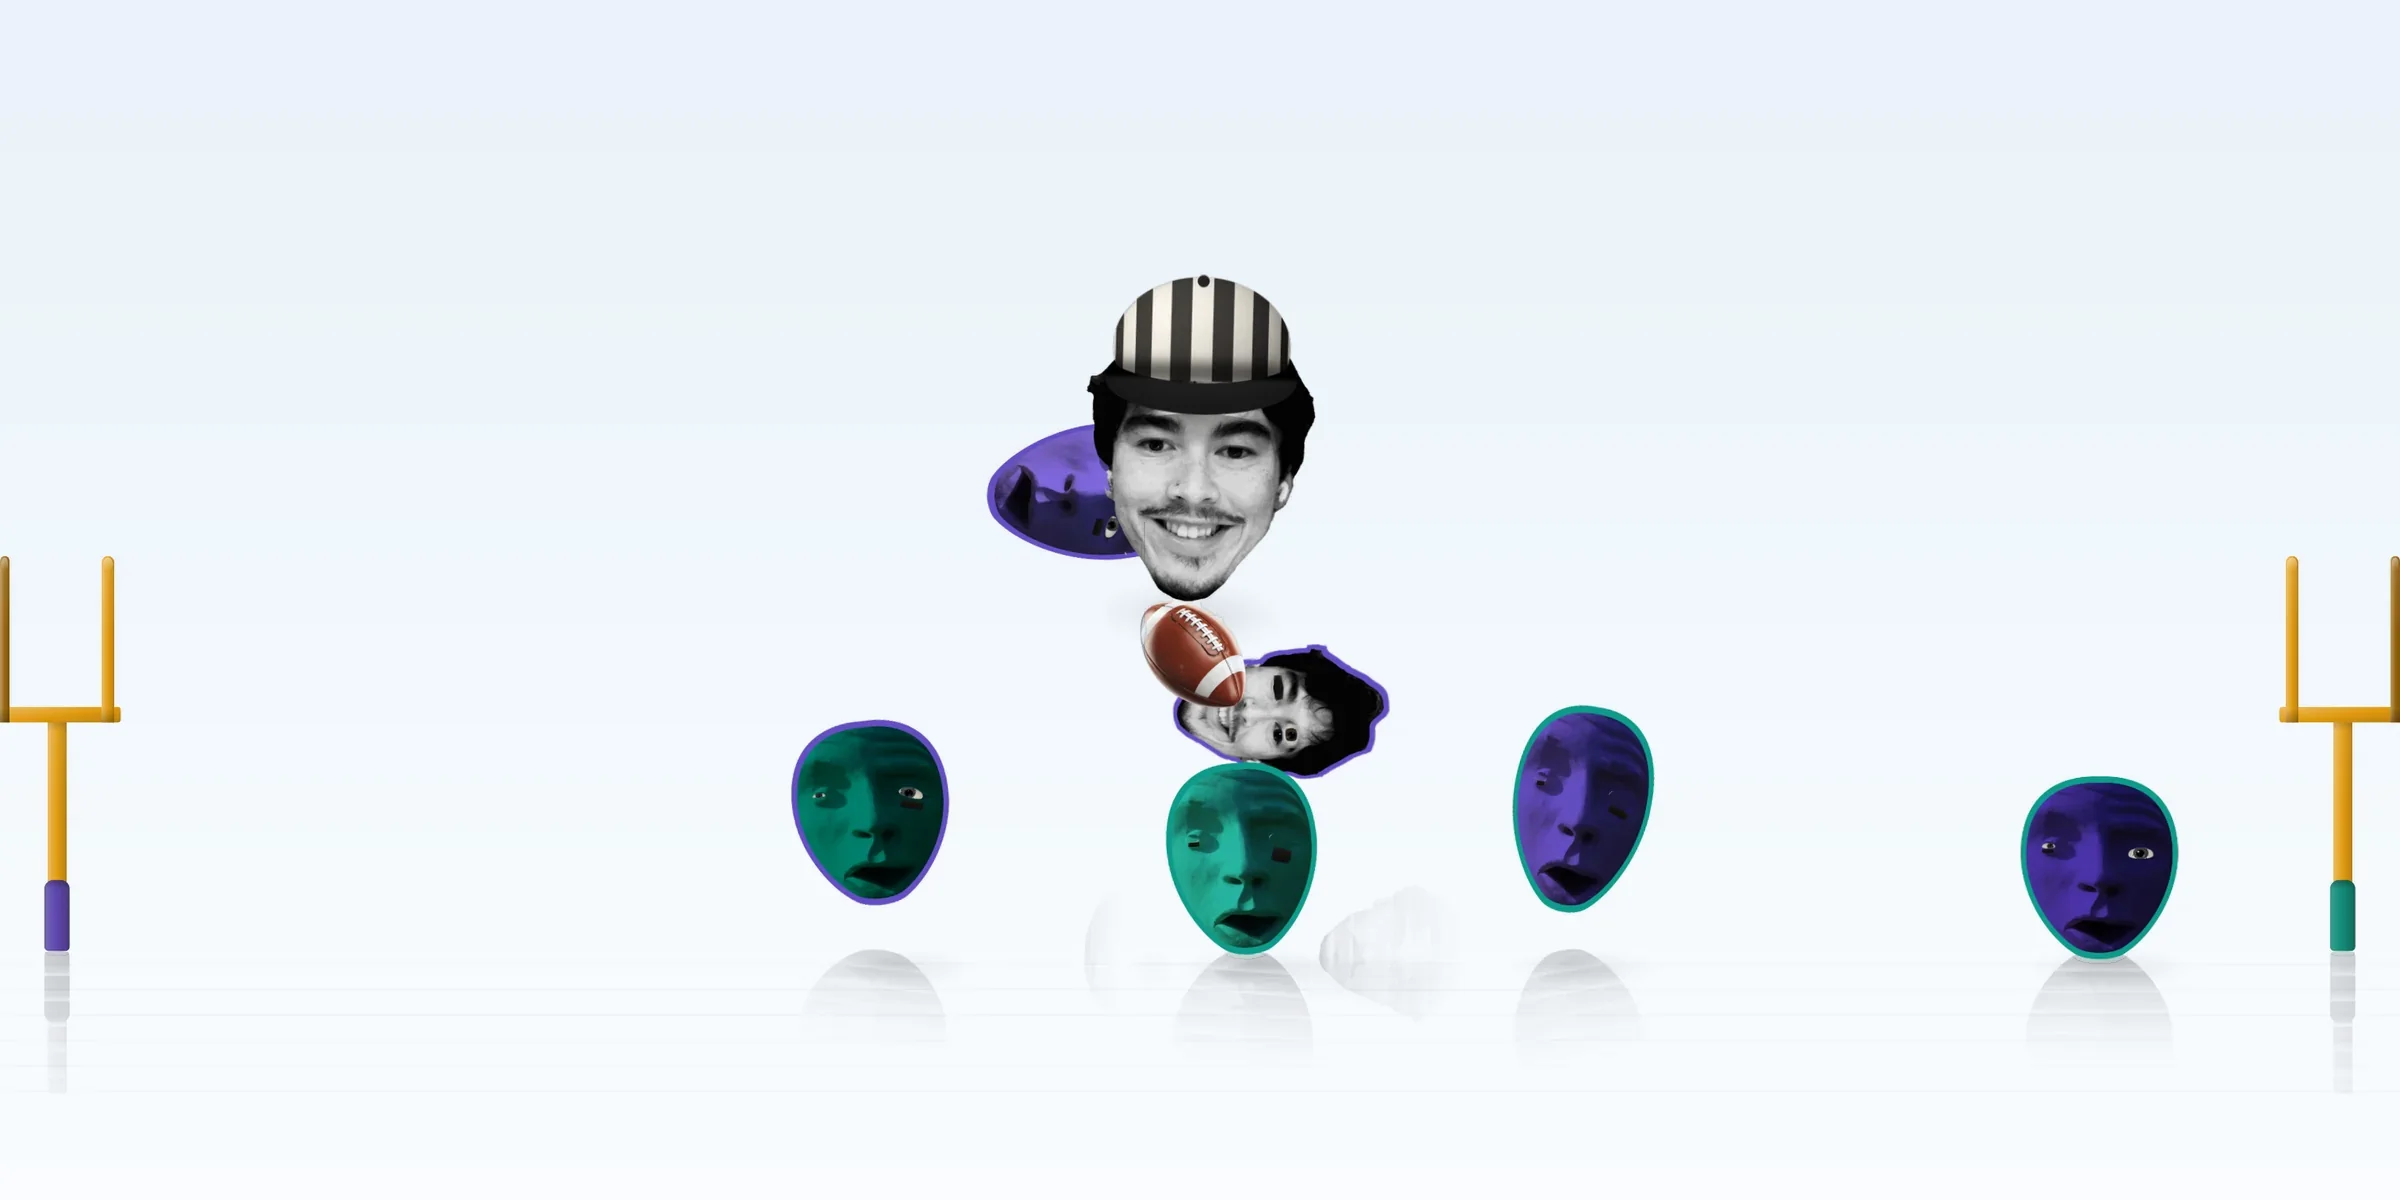
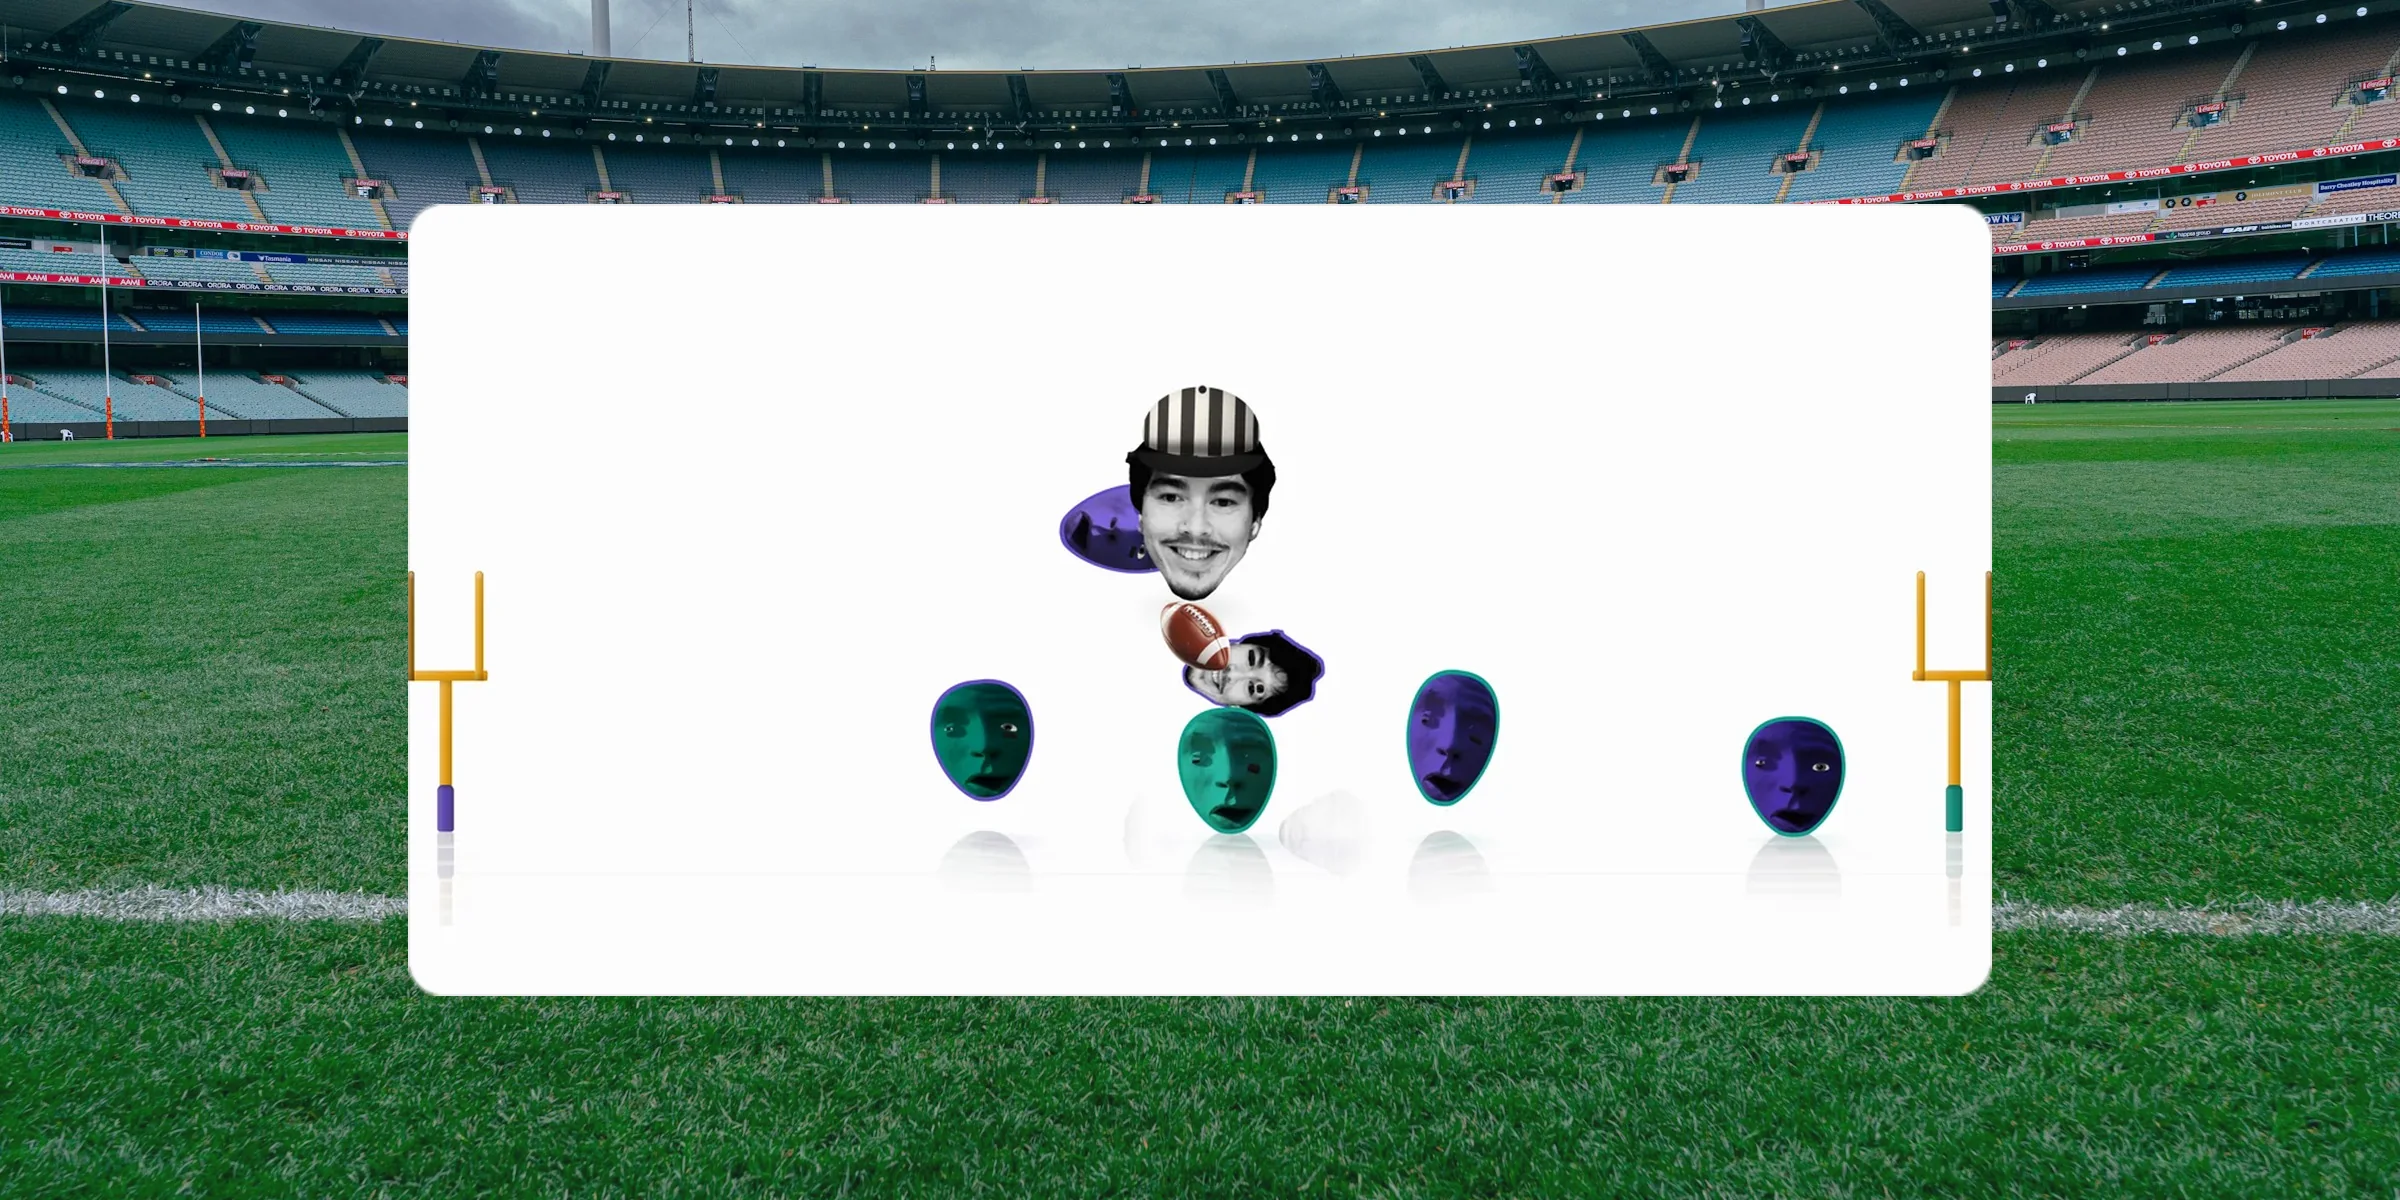
The last two cards get a photograph, so the band is one series again
He said the Tournament card had no picture and the Yowmings one was not
consistent either. Both were true and they were the same defect: of the six
cards, those two were the only ones with no photograph under them. Four are a
neutral daylight frame with the product's signature screen standing on it;
Yowmings was a flat game capture graded in place by a separate code path, and
Tournament was a bare UI panel on white that had never been through the tool.

Both are in SCENES now and take the same construction as the rest. Three
football grounds have to stay tellable apart, so engine keeps its mown pitch and
treeline, the League gets a big tiered bowl, and the cup gets one stand behind a
flat green. A floodlit Parc des Princes frame was rejected on the way: it is a
night shot, which this grade cannot undo, and it carries PSG, Mastercard, PS5
and Pepsi hoardings, which have no business on his portfolio.

Yowmings also stops being the exception in the controller. Its Off state pointed
at the flat capture while every other project's Off is its own ungraded plate,
so switching the clock off changed the picture rather than the light. It now has
a real cover.webp like the rest.

One bug found by the move. product_drift() picked its sampling method by SLUG
NAME, so yowmings kept the silhouette mask built from the old flat capture's ink
-- laid over a plate whose silhouette is now mostly photograph, it measured the
[…]

diff --git a/play.html b/play.html
@@ -1861,7 +1861,7 @@
        ═══════════════════════════════════════════════════════════════════════════════ -->
   <div class="pCard" id="pcYow">
    <div class="pCardShot">
-    <img class="pCardImg" data-time-thumbnail="yowmings" src="images/cs/yowmings/card-1200.webp" srcset="images/cs/yowmings/card-1200.webp 1200w, images/cs/yowmings/card-2400.webp 2400w" sizes="(max-width: 560px) calc(100vw - 80px), (max-width: 760px) calc(50vw - 56px), (max-width: 1280px) calc(50vw - 72px), 552px" width="1200" height="600" alt="A head in a striped referee cap drops the ball in at kickoff, with cut-out heads waiting on the pitch below and a set of uprights at each end." loading="lazy" decoding="async" draggable="false">
+    <img class="pCardImg" data-time-thumbnail="yowmings" src="images/cs/study/yowmings/cover.webp" sizes="(max-width: 560px) calc(100vw - 80px), (max-width: 760px) calc(50vw - 56px), (max-width: 1280px) calc(50vw - 72px), 552px" width="1200" height="600" alt="A head in a striped referee cap drops the ball in at kickoff, with cut-out heads waiting on the pitch below and a set of uprights at each end." loading="lazy" decoding="async" draggable="false">
     <button class="pCardGo ctl ctl--primary" type="button" aria-label="Play the Yowmings League now"><svg class="gIco" viewBox="0 0 24 24" aria-hidden="true"><path d="M8 5v14l11-7z" fill="currentColor" stroke="currentColor" stroke-width="1.8" stroke-linejoin="round"/></svg></button>
    </div>
    <a class="pCardOpen pCardT" href="yowmings.html">Yowmings League</a>
@@ -1877,7 +1877,7 @@
   </div>
   <div class="pCard" id="pcTour">
    <div class="pCardShot">
-    <img class="pCardImg" src="images/cs/study/engine/tournament.webp" width="1800" height="806" sizes="(max-width: 560px) calc(100vw - 80px), (max-width: 760px) calc(50vw - 56px), (max-width: 1280px) calc(50vw - 72px), 552px" alt="The cup's next-fixture panel: two heads named as opponents, the round above them, and Kick off, Simulate and Leave under them." loading="lazy" decoding="async" draggable="false">
+    <img class="pCardImg" data-time-thumbnail="tournament" src="images/cs/study/tournament/cover.webp" width="1600" height="800" sizes="(max-width: 560px) calc(100vw - 80px), (max-width: 760px) calc(50vw - 56px), (max-width: 1280px) calc(50vw - 72px), 552px" alt="The cup's next-fixture panel: two heads named as opponents, the round above them, and Kick off, Simulate and Leave under them." loading="lazy" decoding="async" draggable="false">
     <button class="pCardGo ctl ctl--primary" type="button" aria-label="Start a tournament now"><svg class="gIco" viewBox="0 0 24 24" aria-hidden="true"><path d="M8 5v14l11-7z" fill="currentColor" stroke="currentColor" stroke-width="1.8" stroke-linejoin="round"/></svg></button>
    </div>
    <a class="pCardOpen pCardT" href="engine.html">Tournament</a>

diff --git a/time-aware-thumbnails.js b/time-aware-thumbnails.js
@@ -42,11 +42,14 @@
     attribute is what keeps that from being luck. "workspace" does not match
     workspace-study.html at all, so its card MUST keep data-slug="workspace". */
  var PROJECTS=Object.freeze(["bearings","apollo","strata","cluster","ucdavis",
-                             "workspace","headmaker","gradientlab","engine","yowmings"]);
+                             "workspace","headmaker","gradientlab","engine","yowmings",
+                             "tournament"]);
  /* Off. Each is the SAME picture as that project's six states with no grade
     applied, so switching the clock off changes the light and nothing else.
-    Yowmings is the exception and deliberately so: its Off is the match plate
-    the Home card and the case-study hero already load, untouched. */
+    Yowmings USED to be the exception here, pointing at the flat game capture the
+    Home card loads. It is not any more: on 2026-09-01 it moved onto a photograph
+    like the rest, so its Off is its own ungraded plate and Off now changes the
+    light and nothing else on every project without exception. */
  var ORIGINALS=Object.freeze({
   bearings:"images/cs/bearings-cover.webp",
   apollo:"images/cs/apollo-cover.webp",
@@ -57,13 +60,14 @@
   headmaker:"images/cs/study/headmaker/cover.webp",
   gradientlab:"images/cs/study/gradientlab/cover.webp",
   engine:"images/cs/study/engine/cover.webp",
-  yowmings:"images/cs/yowmings/card-1200.webp"
+  yowmings:"images/cs/study/yowmings/cover.webp",
+  tournament:"images/cs/study/tournament/cover.webp"
  });
  var VARIANT_DIRS=Object.freeze({
   bearings:"bearings",apollo:"apollo",strata:"strata",cluster:"cluster",
   ucdavis:"ucrec",
   workspace:"workspace",headmaker:"headmaker",gradientlab:"gradientlab",
-  engine:"engine",yowmings:"yowmings"
+  engine:"engine",yowmings:"yowmings",tournament:"tournament"
  });
  var SIZES="(max-width: 760px) calc(100vw - 48px), (max-width: 1280px) calc(100vw - 80px), 1200px";
 

diff --git a/tools/build-study-time-thumbnails.py b/tools/build-study-time-thumbnails.py
@@ -86,6 +86,29 @@ SCENES = {
     "headmaker": ("https://images.unsplash.com/photo-1778110858872-5bde317d0272", .55),
     "gradientlab": ("https://images.unsplash.com/photo-1611613042541-21b1afcae5fd", .55),
     "engine": ("https://images.unsplash.com/photo-1719469202552-3a86b1bf5ff0", .55),
+    # ADDED 2026-09-01, when he said the Tournament card had no picture and the
+    # Yowmings one was not consistent with the rest.  Both were true: they were the
+    # only two cards in the band with no photograph under them.  Yowmings was a flat
+    # game capture graded in place by build_yowmings() below, and Tournament was a bare
+    # UI panel on white that had never been through this tool at all.
+    #
+    # Three football grounds now, and they have to stay TELLABLE APART, which is the
+    # same rule the other four follow: engine keeps its mown pitch and conifer treeline,
+    # the League gets a big tiered bowl, and the cup gets a single stand behind an even
+    # green.  Both new frames are flat overcast light with NO SUN IN SHOT, because a
+    # photograph that already reads as one hour cannot be graded to another.
+    #
+    #   yowmings    Yan Berthemy     Ss4hyF3xUic  an empty stadium bowl under cloud --
+    #               the League is a competition, so it stands in a competition's room.
+    #   tournament  Nathan Bingle    9UVmlIb0wJU  one stand behind a flat green, shot
+    #               level: a knockout tie is one match at one ground, not a season.
+    #
+    # A floodlit Parc des Princes frame was rejected on the way here for two reasons
+    # worth recording: it is a night shot, which this grade cannot undo, and it carries
+    # PSG, Mastercard, PS5 and Pepsi hoardings -- third-party marks have no business on
+    # his portfolio.  Check both before adding a fourth ground.
+    "yowmings": ("https://images.unsplash.com/photo-1663832952954-170d73947ba7", .58),
+    "tournament": ("https://images.unsplash.com/photo-1661924038279-9ce6514d5bf4", .60),
 }
 
 # The one screen that stands on each photograph: the product's signature view.
@@ -98,6 +121,9 @@ LAYOUTS = {
     "headmaker": "study/headmaker/step3.webp",
     "gradientlab": "study/gradientlab/builder.webp",
     "engine": "study/engine/soccer.webp",
+    # The kickoff, which is the screen he named: "put the kickoff on a real pitch photo".
+    "yowmings": "yowmings/card-1200.webp",
+    "tournament": "study/engine/tournament.webp",
 }
 # How much of the screen to keep, top and bottom as fractions of its height.
 # Only the match capture needs it: measured, its last non-white row is 601 of
@@ -472,7 +498,15 @@ def product_drift(slug, folder=None):
     """
     folder = folder or OUT / slug
     frames = [Image.open(folder / f"{state}-1200.webp").convert("RGB") for state in STATES]
-    if slug == "yowmings":
+    # THE SAMPLE FOLLOWS THE CONSTRUCTION, NOT THE NAME.  This read `slug ==
+    # "yowmings"` and picked the silhouette sample for it always.  Once yowmings moved
+    # onto a photograph (2026-09-01) that mask -- built from the OLD flat capture's ink
+    # -- was laid over a plate whose silhouette is now mostly PHOTOGRAPH, so it measured
+    # the sky changing between states and called it the product moving: peak 101 against
+    # a 60 bound, on a plate that measures 24 when sampled correctly.  A slug with a
+    # photograph under it has its product in one rectangle and is cropped; only a plate
+    # graded in place needs the mask.
+    if slug not in SCENES:
         # The ink is scattered over the whole plate rather than sitting in one
         # rectangle, so the sample is taken through a mask instead of a crop --
         # and the mask is the ink's SILHOUETTE, not the pixels the matte happens
@@ -576,9 +610,22 @@ def main():
         self_test()
         self_test_yowmings()
         return
-    slugs = sys.argv[1:] or list(SCENES) + ["yowmings"]
+    # YOWMINGS IS NO LONGER THE EXCEPTION.  It used to run build_yowmings(), which
+    # grades the shipped game capture in place behind an ink matte -- no photograph
+    # under it.  That is exactly what he meant on 2026-09-01 by "the yowmings picture
+    # is not consistent either": it was the only card in the band with no photograph,
+    # and beside five plates that all are one it read as a different kind of object.
+    # It is in SCENES now and takes the same path as the rest.  build_yowmings() and
+    # its self-test are kept, unreferenced by default, because the matte work in them
+    # is the only thing that knows how to lift the heads off that capture and someone
+    # may want it back; `--legacy-yowmings` still runs it.
+    if "--legacy-yowmings" in sys.argv:
+        for path in build_yowmings():
+            print(path.relative_to(ROOT), path.stat().st_size)
+        return
+    slugs = [a for a in sys.argv[1:] if not a.startswith("--")] or list(SCENES)
     for slug in slugs:
-        for path in (build_yowmings() if slug == "yowmings" else build(slug)):
+        for path in build(slug):
             print(path.relative_to(ROOT), path.stat().st_size)
         variants = sorted((OUT / slug).glob("*.webp"))
         assert len(variants) == 12, (slug, len(variants))
